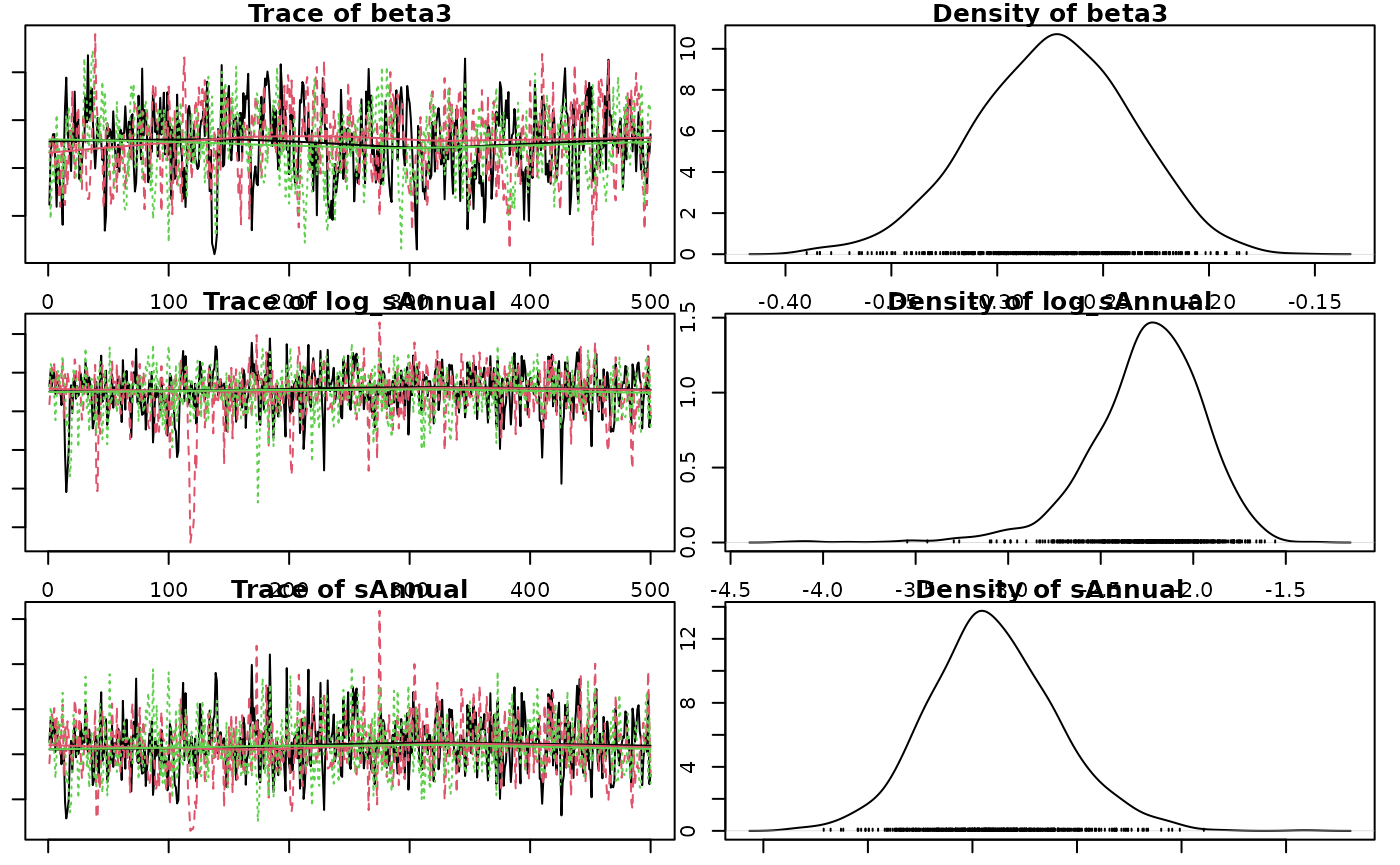
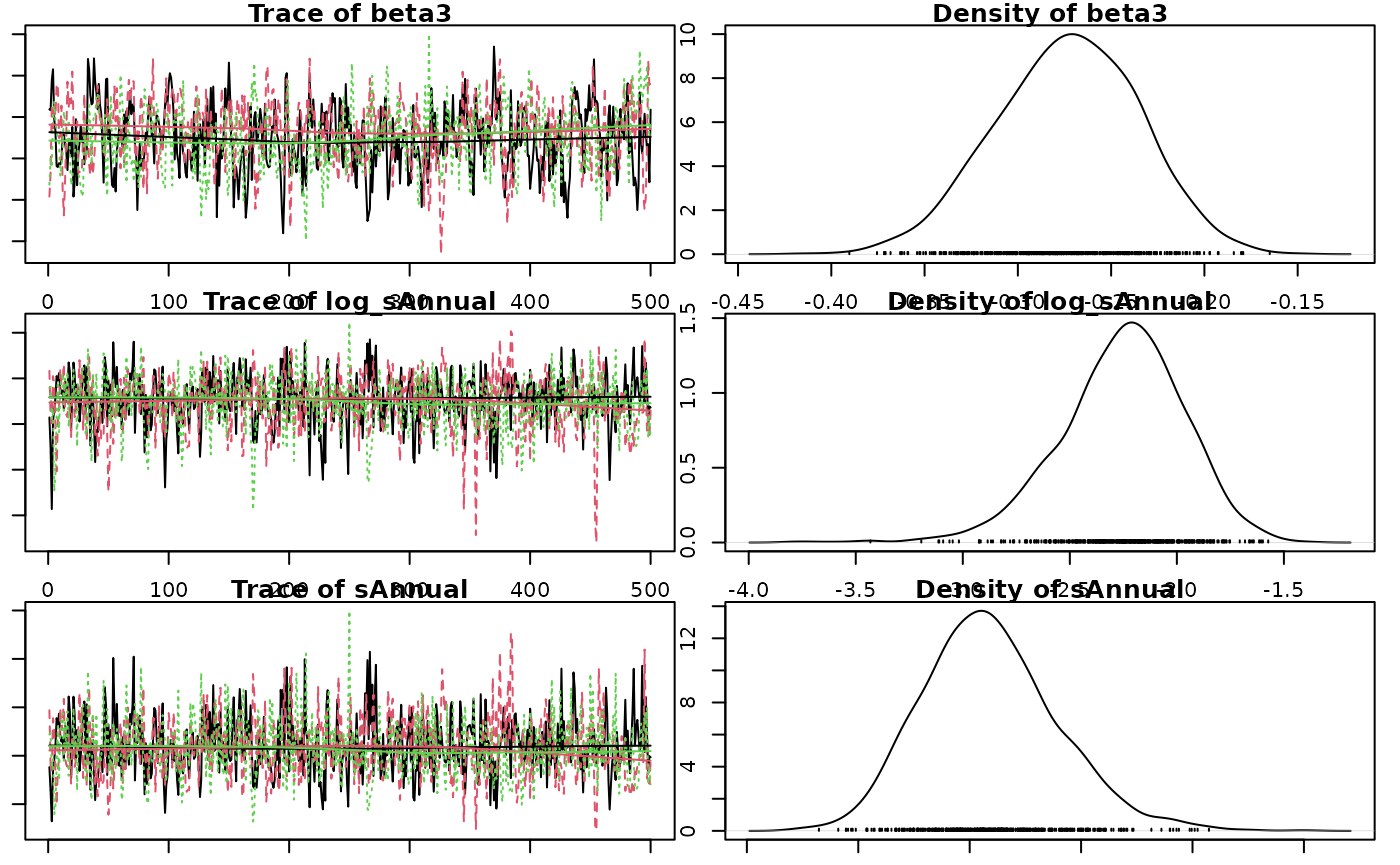
Deploying to gh-pages from @ poissonconsulting/jmbr@a0167e0b0c01761b4821631fe6aa620ca8511d7b 🚀

diff --git a/articles/jmbr.html b/articles/jmbr.html
@@ -278,14 +278,14 @@ value and discarding all other values.</p>
 <span><span class="co">#&gt; <span style="color: #949494;"># A tibble: 1 × 8</span></span></span>
 <span><span class="co">#&gt;       n     K nchains niters nthin   ess  rhat converged</span></span>
 <span><span class="co">#&gt;   <span style="color: #949494; font-style: italic;">&lt;int&gt;</span> <span style="color: #949494; font-style: italic;">&lt;int&gt;</span>   <span style="color: #949494; font-style: italic;">&lt;int&gt;</span>  <span style="color: #949494; font-style: italic;">&lt;int&gt;</span> <span style="color: #949494; font-style: italic;">&lt;int&gt;</span> <span style="color: #949494; font-style: italic;">&lt;int&gt;</span> <span style="color: #949494; font-style: italic;">&lt;dbl&gt;</span> <span style="color: #949494; font-style: italic;">&lt;lgl&gt;</span>    </span></span>
-<span><span class="co">#&gt; <span style="color: #BCBCBC;">1</span>    40     6       3    500    10   251  4.20 FALSE</span></span>
+<span><span class="co">#&gt; <span style="color: #BCBCBC;">1</span>    40     6       3    500    10   165  1.38 FALSE</span></span>
 <span><span class="co">#&gt; Warning in value[[3L]](cond): beep() could not play the sound due to the following error:</span></span>
 <span><span class="co">#&gt; Error in play.default(x, rate, ...): no audio drivers are available</span></span>
 <span><span class="va">analysis</span> <span class="op">&lt;-</span> <span class="fu"><a href="https://rdrr.io/pkg/embr/man/reanalyse.html" class="external-link">reanalyse</a></span><span class="op">(</span><span class="va">analysis</span><span class="op">)</span></span>
 <span><span class="co">#&gt; <span style="color: #949494;"># A tibble: 1 × 8</span></span></span>
 <span><span class="co">#&gt;       n     K nchains niters nthin   ess  rhat converged</span></span>
 <span><span class="co">#&gt;   <span style="color: #949494; font-style: italic;">&lt;int&gt;</span> <span style="color: #949494; font-style: italic;">&lt;int&gt;</span>   <span style="color: #949494; font-style: italic;">&lt;int&gt;</span>  <span style="color: #949494; font-style: italic;">&lt;int&gt;</span> <span style="color: #949494; font-style: italic;">&lt;int&gt;</span> <span style="color: #949494; font-style: italic;">&lt;int&gt;</span> <span style="color: #949494; font-style: italic;">&lt;dbl&gt;</span> <span style="color: #949494; font-style: italic;">&lt;lgl&gt;</span>    </span></span>
-<span><span class="co">#&gt; <span style="color: #BCBCBC;">1</span>    40     6       3    500    20   530  1.01 TRUE</span></span>
+<span><span class="co">#&gt; <span style="color: #BCBCBC;">1</span>    40     6       3    500    20   459  1.02 TRUE</span></span>
 <span><span class="co">#&gt; Warning in value[[3L]](cond): beep() could not play the sound due to the following error:</span></span>
 <span><span class="co">#&gt; Error in play.default(x, rate, ...): no audio drivers are available</span></span></code></pre></div>
 <p><strong>Analysis Table:</strong></p>
@@ -331,10 +331,10 @@ between- and within-chain estimates for model parameters.
 <span><span class="co">#&gt;   <span style="color: #949494; font-style: italic;">&lt;term&gt;</span>         <span style="color: #949494; font-style: italic;">&lt;dbl&gt;</span>   <span style="color: #949494; font-style: italic;">&lt;dbl&gt;</span>   <span style="color: #949494; font-style: italic;">&lt;dbl&gt;</span>  <span style="color: #949494; font-style: italic;">&lt;dbl&gt;</span></span></span>
 <span><span class="co">#&gt; <span style="color: #BCBCBC;">1</span> alpha         4.26    4.18    4.34   10.6  </span></span>
 <span><span class="co">#&gt; <span style="color: #BCBCBC;">2</span> beta1         1.19    1.06    1.35   10.6  </span></span>
-<span><span class="co">#&gt; <span style="color: #BCBCBC;">3</span> beta2        -<span style="color: #BB0000;">0.018</span><span style="color: #BB0000; text-decoration: underline;">7</span> -<span style="color: #BB0000;">0.082</span><span style="color: #BB0000; text-decoration: underline;">0</span>  0.043<span style="text-decoration: underline;">3</span>  0.962</span></span>
-<span><span class="co">#&gt; <span style="color: #BCBCBC;">4</span> beta3        -<span style="color: #BB0000;">0.273</span>  -<span style="color: #BB0000;">0.349</span>  -<span style="color: #BB0000;">0.207</span>  10.6  </span></span>
-<span><span class="co">#&gt; <span style="color: #BCBCBC;">5</span> log_sAnnual  -<span style="color: #BB0000;">2.22</span>   -<span style="color: #BB0000;">2.97</span>   -<span style="color: #BB0000;">1.75</span>   10.6  </span></span>
-<span><span class="co">#&gt; <span style="color: #BCBCBC;">6</span> sAnnual       0.108   0.051<span style="text-decoration: underline;">1</span>  0.174  10.6</span></span></code></pre></div>
+<span><span class="co">#&gt; <span style="color: #BCBCBC;">3</span> beta2        -<span style="color: #BB0000;">0.018</span><span style="color: #BB0000; text-decoration: underline;">2</span> -<span style="color: #BB0000;">0.074</span><span style="color: #BB0000; text-decoration: underline;">1</span>  0.042<span style="text-decoration: underline;">5</span>  0.868</span></span>
+<span><span class="co">#&gt; <span style="color: #BCBCBC;">4</span> beta3        -<span style="color: #BB0000;">0.272</span>  -<span style="color: #BB0000;">0.350</span>  -<span style="color: #BB0000;">0.203</span>  10.6  </span></span>
+<span><span class="co">#&gt; <span style="color: #BCBCBC;">5</span> log_sAnnual  -<span style="color: #BB0000;">2.24</span>   -<span style="color: #BB0000;">2.90</span>   -<span style="color: #BB0000;">1.76</span>   10.6  </span></span>
+<span><span class="co">#&gt; <span style="color: #BCBCBC;">6</span> sAnnual       0.107   0.055<span style="text-decoration: underline;">2</span>  0.173  10.6</span></span></code></pre></div>
 <p>The estimate is the <strong>median</strong> by default.</p>
 <p>The s-value is the <strong>suprisal</strong> value, which is a
 measure of directionality with respect to zero.</p>

diff --git a/deps/Playfair_Display-0.4.10/font.css b/deps/Playfair_Display-0.4.10/font.css
@@ -23,7 +23,7 @@
   font-weight: 400;
   font-display: swap;
   src: url(nuFvD-vYSZviVYUb_rj3ij__anPXJzDwcbmjWBN2PKdFvXDZbtPY_Q.woff2) format('woff2');
-  unicode-range: U+0100-02BA, U+02BD-02C5, U+02C7-02CC, U+02CE-02D7, U+02DD-02FF, U+0304, U+0308, U+0329, U+1D00-1DBF, U+1E00-1E9F, U+1EF2-1EFF, U+2020, U+20A0-20AB, U+20AD-20C0, U+2113, U+2C60-2C7F, U+A720-A7FF;
+  unicode-range: U+0100-02BA, U+02BD-02C5, U+02C7-02CC, U+02CE-02D7, U+02DD-02FF, U+0304, U+0308, U+0329, U+1D00-1DBF, U+1E00-1E9F, U+1EF2-1EFF, U+2020, U+20A0-20AB, U+20AD-20C4, U+2113, U+2C60-2C7F, U+A720-A7FF;
 }
 /* latin */
 @font-face {

diff --git a/deps/Roboto_Condensed-0.4.10/font.css b/deps/Roboto_Condensed-0.4.10/font.css
@@ -50,7 +50,7 @@
   font-weight: 400;
   font-display: swap;
   src: url(ieVo2ZhZI2eCN5jzbjEETS9weq8-_d6T_POl0fRJeyWyosBA5XxxKA.woff2) format('woff2');
-  unicode-range: U+0100-02BA, U+02BD-02C5, U+02C7-02CC, U+02CE-02D7, U+02DD-02FF, U+0304, U+0308, U+0329, U+1D00-1DBF, U+1E00-1E9F, U+1EF2-1EFF, U+2020, U+20A0-20AB, U+20AD-20C0, U+2113, U+2C60-2C7F, U+A720-A7FF;
+  unicode-range: U+0100-02BA, U+02BD-02C5, U+02C7-02CC, U+02CE-02D7, U+02DD-02FF, U+0304, U+0308, U+0329, U+1D00-1DBF, U+1E00-1E9F, U+1EF2-1EFF, U+2020, U+20A0-20AB, U+20AD-20C4, U+2113, U+2C60-2C7F, U+A720-A7FF;
 }
 /* latin */
 @font-face {

diff --git a/deps/Roboto_Mono-0.4.10/font.css b/deps/Roboto_Mono-0.4.10/font.css
@@ -41,7 +41,7 @@
   font-weight: 400;
   font-display: swap;
   src: url(L0xuDF4xlVMF-BfR8bXMIhJHg45mwgGEFl0_3vq_SuW4Ep0.woff2) format('woff2');
-  unicode-range: U+0100-02BA, U+02BD-02C5, U+02C7-02CC, U+02CE-02D7, U+02DD-02FF, U+0304, U+0308, U+0329, U+1D00-1DBF, U+1E00-1E9F, U+1EF2-1EFF, U+2020, U+20A0-20AB, U+20AD-20C0, U+2113, U+2C60-2C7F, U+A720-A7FF;
+  unicode-range: U+0100-02BA, U+02BD-02C5, U+02C7-02CC, U+02CE-02D7, U+02DD-02FF, U+0304, U+0308, U+0329, U+1D00-1DBF, U+1E00-1E9F, U+1EF2-1EFF, U+2020, U+20A0-20AB, U+20AD-20C4, U+2113, U+2C60-2C7F, U+A720-A7FF;
 }
 /* latin */
 @font-face {

diff --git a/articles/jmbr.md b/articles/jmbr.md
@@ -214,14 +214,14 @@ analysis <- analyse(model, data = data)
 #> # A tibble: 1 × 8
 #>       n     K nchains niters nthin   ess  rhat converged
 #>   <int> <int>   <int>  <int> <int> <int> <dbl> <lgl>    
-#> 1    40     6       3    500    10   251  4.20 FALSE
+#> 1    40     6       3    500    10   165  1.38 FALSE
 #> Warning in value[[3L]](cond): beep() could not play the sound due to the following error:
 #> Error in play.default(x, rate, ...): no audio drivers are available
 analysis <- reanalyse(analysis)
 #> # A tibble: 1 × 8
 #>       n     K nchains niters nthin   ess  rhat converged
 #>   <int> <int>   <int>  <int> <int> <int> <dbl> <lgl>    
-#> 1    40     6       3    500    20   530  1.01 TRUE
+#> 1    40     6       3    500    20   459  1.02 TRUE
 #> Warning in value[[3L]](cond): beep() could not play the sound due to the following error:
 #> Error in play.default(x, rate, ...): no audio drivers are available
 ```
@@ -263,10 +263,10 @@ coef(analysis, directional_information = FALSE)
 #>   <term>         <dbl>   <dbl>   <dbl>  <dbl>
 #> 1 alpha         4.26    4.18    4.34   10.6  
 #> 2 beta1         1.19    1.06    1.35   10.6  
-#> 3 beta2        -0.0187 -0.0820  0.0433  0.962
-#> 4 beta3        -0.273  -0.349  -0.207  10.6  
-#> 5 log_sAnnual  -2.22   -2.97   -1.75   10.6  
-#> 6 sAnnual       0.108   0.0511  0.174  10.6
+#> 3 beta2        -0.0182 -0.0741  0.0425  0.868
+#> 4 beta3        -0.272  -0.350  -0.203  10.6  
+#> 5 log_sAnnual  -2.24   -2.90   -1.76   10.6  
+#> 6 sAnnual       0.107   0.0552  0.173  10.6
 ```
 
 The estimate is the **median** by default.
